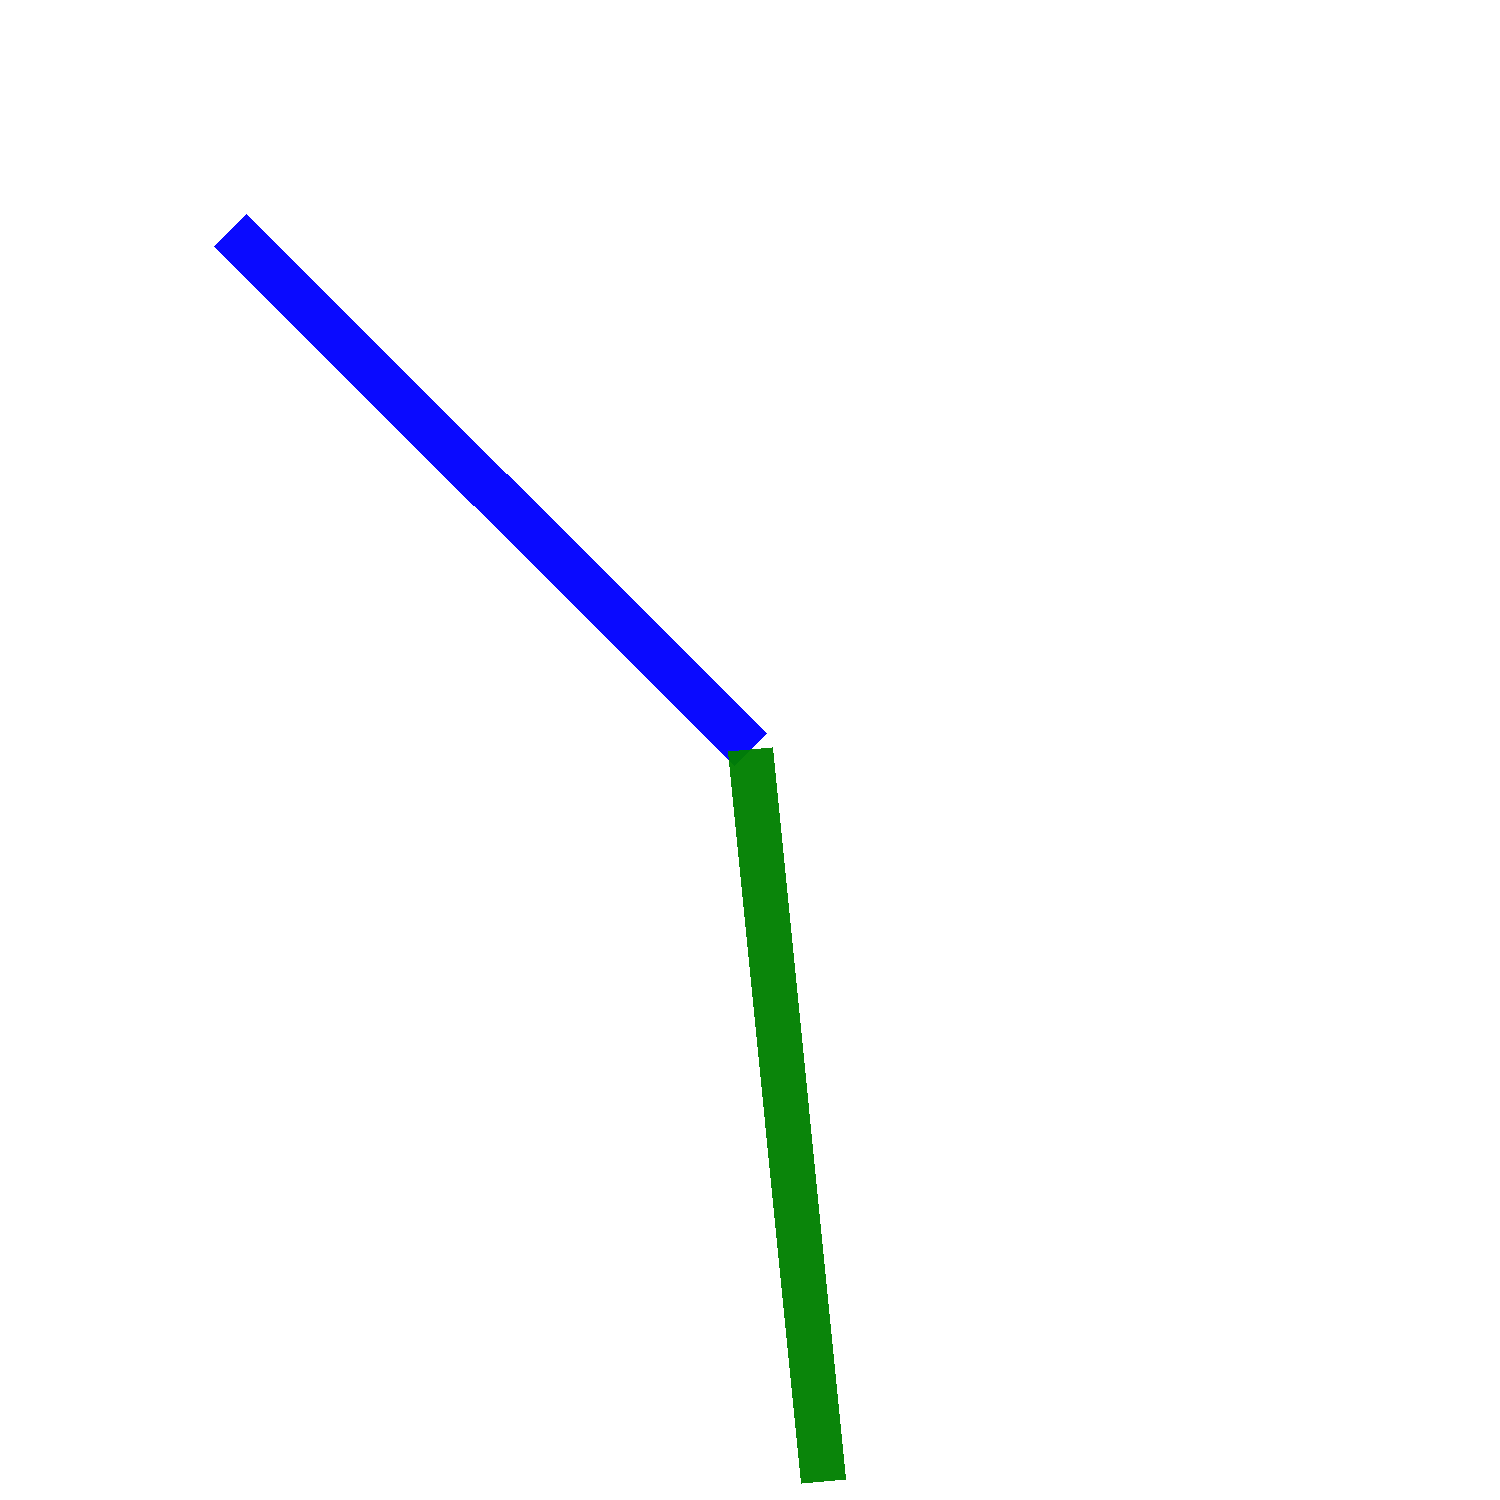
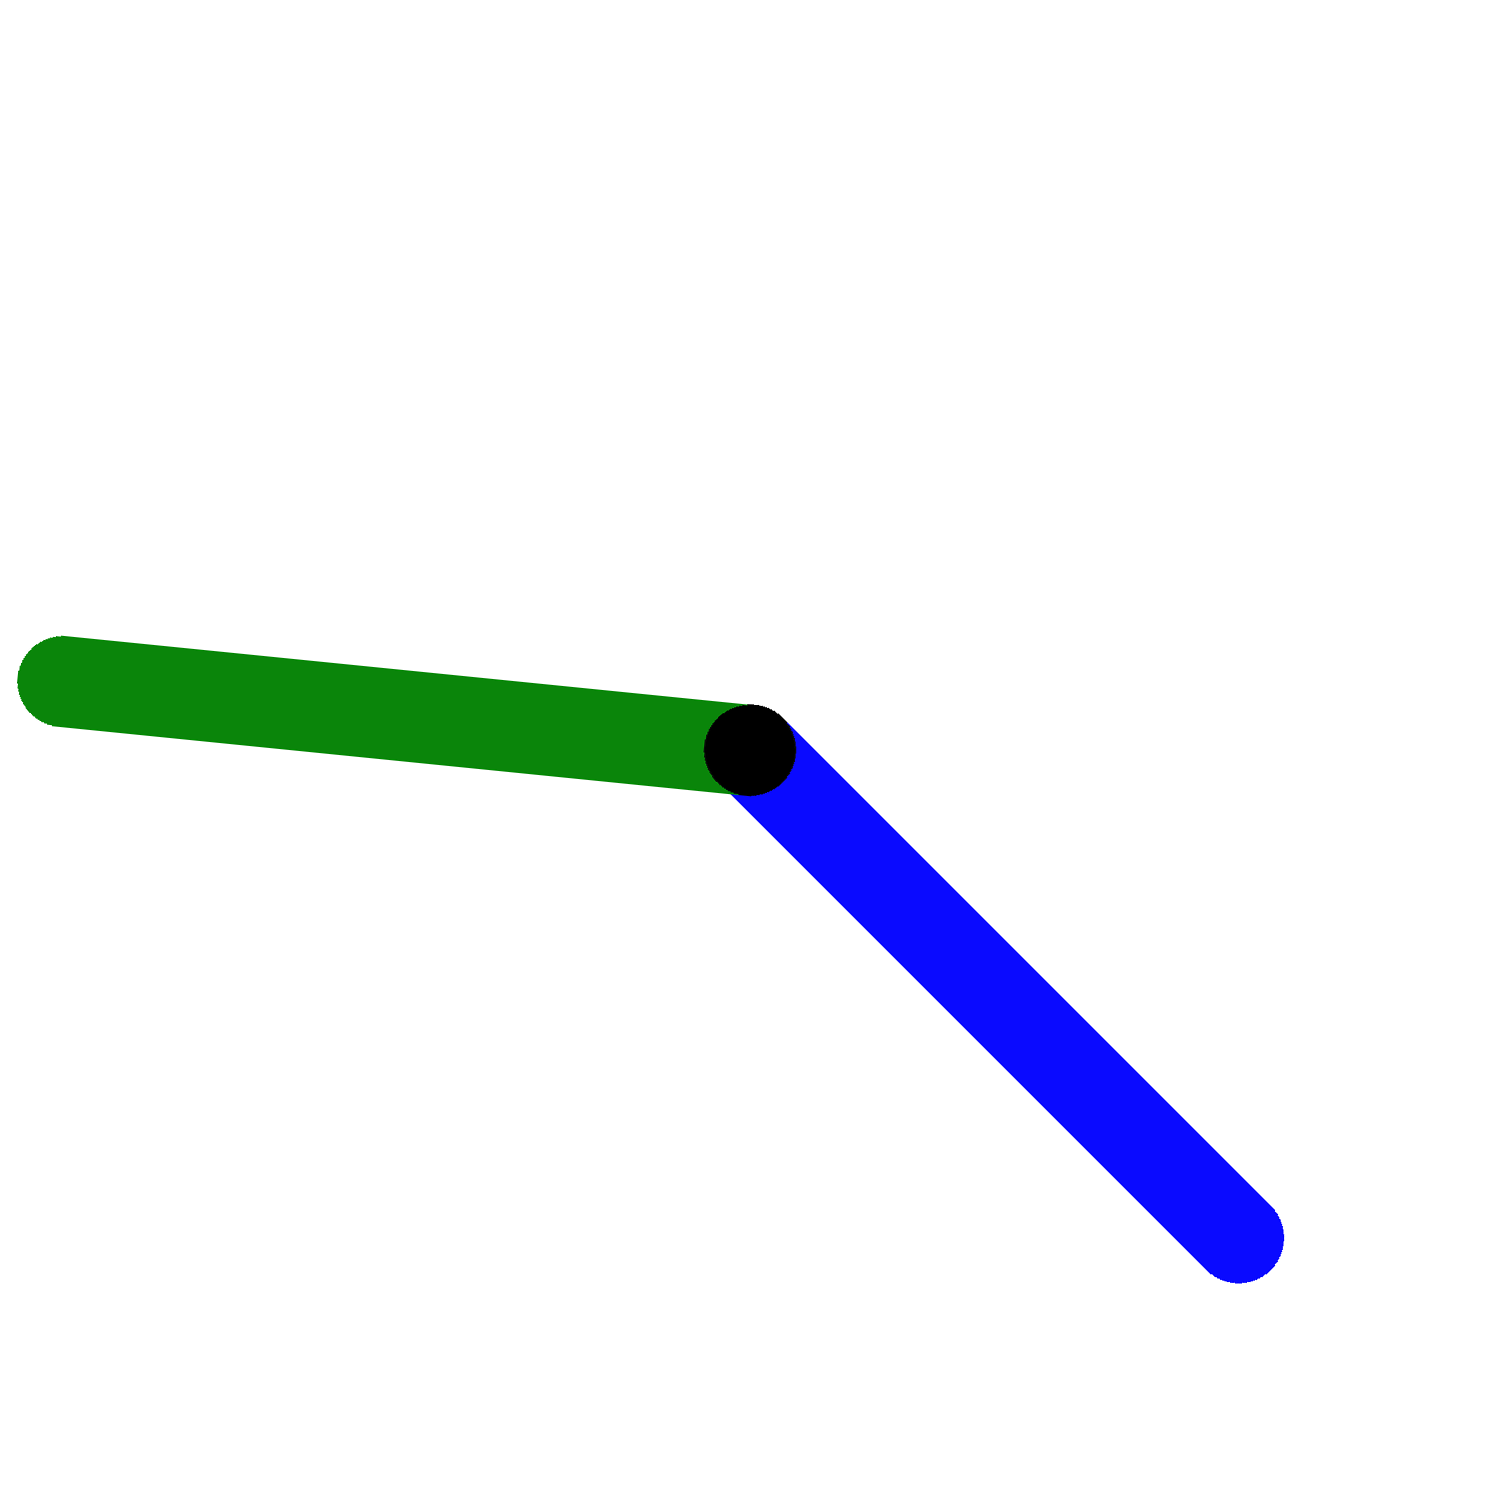
add pivot point

Changed region(s): [[0.0, 0.1227, 0.8587, 1.0]]

diff --git a/src/intention_learning/img.py b/src/intention_learning/img.py
@@ -16,10 +16,11 @@ class ImageHandler:
         state: np.ndarray,
         color: str = "black",
         opacity: int = 255,
-        width: float = 0.03,
+        width: float = 0.06,
         length_sub: float = 0.01,
+        corner_radius: int = 10,
     ) -> Image.Image:
-        """Render the pendulum state into an image with specified color and opacity.
+        """Render the pendulum state as a rounded rectangle with a black circle at its base.
 
         Returns:
             PIL.Image.Image: The rendered image of the pendulum.
@@ -27,6 +28,8 @@ class ImageHandler:
         # Extract the angle θ from the state
         cos_theta, sin_theta = state[0], state[1]
         theta = np.arctan2(sin_theta, cos_theta)
+        theta_degrees = np.degrees(-theta)  # Negative because PIL rotates counterclockwise
+
         pendulum_width = int(self.image_dim * width)
 
         # Define pendulum parameters
@@ -35,21 +38,49 @@ class ImageHandler:
             self.image_dim // 2 - self.image_dim * length_sub
         )  # Length of the pendulum rod
 
-        # Calculate the pendulum bob position
-        x_end = origin[0] + length * np.sin(theta)
-        y_end = origin[1] + length * np.cos(theta)
-
-        # Create a transparent image
-        image = Image.new("RGBA", (self.image_dim, self.image_dim), (0, 0, 0, 0))
-        draw = ImageDraw.Draw(image)
+        # Create a transparent image for the pendulum
+        pendulum_image = Image.new("RGBA", (self.image_dim, self.image_dim), (0, 0, 0, 0))
+        pendulum_draw = ImageDraw.Draw(pendulum_image)
 
         # Apply opacity to the color
         fill_color = ImageColor.getrgb(color) + (opacity,)
 
-        # Draw the pendulum rod
-        draw.line([origin, (x_end, y_end)], fill=fill_color, width=pendulum_width)
+        # Coordinates for the rounded rectangle (drawn pointing rightwards from origin)
+        upper_left = (origin[0] - pendulum_width // 2, origin[1] - pendulum_width // 2)
+        lower_right = (origin[0] + length, origin[1] + pendulum_width // 2)
 
-        # Flip the image
+        # Draw the rounded rectangle
+        pendulum_draw.rounded_rectangle(
+            [upper_left, lower_right],
+            radius=pendulum_width // 2,
+            fill=fill_color
+        )
+
+        # Draw the black circle at the base (origin)
+        circle_radius = pendulum_width // 2
+        circle_bbox = [
+            origin[0] - circle_radius,
+            origin[1] - circle_radius,
+            origin[0] + circle_radius,
+            origin[1] + circle_radius,
+        ]
+        pendulum_draw.ellipse(circle_bbox, fill=(0, 0, 0, opacity))
+
+        # Rotate the pendulum image around the origin
+        rotated_pendulum = pendulum_image.rotate(
+            theta_degrees,
+            center=origin,
+            resample=Image.BICUBIC,
+            expand=False
+        )
+
+        # Create the base image
+        image = Image.new("RGBA", (self.image_dim, self.image_dim), (255, 255, 255, 0))
+
+        # Composite the rotated pendulum onto the base image
+        image = Image.alpha_composite(image, rotated_pendulum)
+
+        # Flip the image vertically to match the coordinate system
         image = image.transpose(Image.FLIP_TOP_BOTTOM)
 
         return image

diff --git a/src/intention_learning/old_judge.py b/src/intention_learning/old_judge.py
@@ -63,9 +63,10 @@ image_files = list(IMAGE_DIR.glob("*.png"))
 # image_files = sorted(
 #     list(IMAGE_DIR.glob("*.png")), key=lambda x: int(x.stem.split("_")[-1])
 # )
-prompt = """In this image, there are two pendulums rotating around the same pivot.
-Which pendulum is closer to being balanced upright? Respond only with the color 
-of the pendulum that is closer to being balanced upright.
+prompt = """You are a judge for the classic pendulum control problem (e.g. in RL).
+Rank the two pendulums in the image based on which one better exemplifies the goal of
+balancing the pendulum upright. Respond only with the color of the pendulum that is closer
+to being balanced upright (i.e. balanced **above** the pivot point).
 """.replace("\n", " ").replace("  ", " ")
 print(prompt)
 
